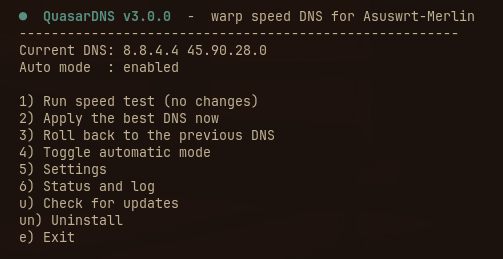
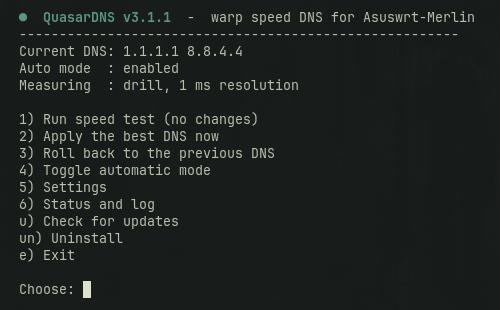
docs: v3.1.1 — install steps, measurement notes, new test sections
Install now downloads the installer to a file instead of piping it into sh.
With `curl ... | sh` the shell's stdin is the pipe, not the terminal, so the
installer cannot ask anything and leaves the automatic mode off without saying
why. Also: only install.sh and quasardns.sh need copying, -O is needed for
Dropbear's lack of SFTP, and scp -r drags .git onto the router.

The menu section leads with the screenshot and quotes only the three lines
worth reading, rather than repeating all 14 as text. The dry-run example is a
real recording, with notes on the two things that look wrong at first glance: a
secondary IP winning (some ISPs block 1.1.1.1 and not its pair) and a score
below 15/15 (a timed-out sample, not a measurement). Corrects `quasar
uninstall` to `quasardns uninstall`.

TESTING.md gains two sections for what this release changed: 1b checks that the
installer asks with `ssh -t` and stays silent without it, and 6 is rewritten
around config/crontab consistency, including breaking it on purpose to confirm
the mismatch is reported rather than swallowed. Section 8 now verifies the
uninstall independently with grep, checks other add-ons survive, and confirms a
reinstall asks about the automatic mode again.

menu.png re-shot on v3.1.1, showing manual DNS and the Measuring line.

Changed region(s): [[0.03, 0.3707, 0.57, 0.9575], [0.03, 0.0309, 0.96, 0.3089], [0.03, 0.0309, 0.06, 0.0927]]

diff --git a/README.md b/README.md
@@ -8,7 +8,7 @@
 
 Inspired by [dnsspeedtest.online](https://dnsspeedtest.online) but built for routers. Runs directly on your **Asuswrt-Merlin** router, works with **amtm**, and plays nicely with Diversion & Skynet.
 
-![QuasarDNS](https://img.shields.io/badge/QuasarDNS-v3.0-7c3aed?style=for-the-badge&logo=starship&logoColor=white) ![Merlin](https://img.shields.io/badge/Merlin-386.x%20%7C%203006.x-0ea5e9?style=for-the-badge&logo=asus&logoColor=white) ![BusyBox](https://img.shields.io/badge/BusyBox-ash-ff6b35?style=for-the-badge&logo=gnubash&logoColor=white) ![License](https://img.shields.io/badge/License-MIT-22c55e?style=for-the-badge&logo=opensourceinitiative&logoColor=white)
+![QuasarDNS](https://img.shields.io/badge/QuasarDNS-v3.1.1-7c3aed?style=for-the-badge&logo=starship&logoColor=white) ![Merlin](https://img.shields.io/badge/Merlin-386.x%20%7C%203006.x-0ea5e9?style=for-the-badge&logo=asus&logoColor=white) ![BusyBox](https://img.shields.io/badge/BusyBox-ash-ff6b35?style=for-the-badge&logo=gnubash&logoColor=white) ![License](https://img.shields.io/badge/License-MIT-22c55e?style=for-the-badge&logo=opensourceinitiative&logoColor=white)
 
 ### Why Quasar?
 
@@ -16,7 +16,7 @@ A quasar is the brightest, most energetic object in the universe — like the fa
 
 ### Features
 
-- **Real benchmark** — 7 public resolvers × 3 popular domains × 5 rounds, measured with the stock `nslookup` (wall-clock of the query); **both IPs of each resolver are tested and the better score is kept** (some networks block `1.1.1.1`); the score is the **mean after dropping the slowest 20 %**, failed queries get a `5000 ms` penalty
+- **Real benchmark** — 7 public resolvers × 3 popular domains × 5 rounds, measured from the **resolver's own reported query time** (Entware `drill`, 1 ms resolution), so the score reflects DNS latency and nothing else; **both IPs of each resolver are tested and the better score is kept** (some networks block `1.1.1.1`); the score is the **mean after dropping the slowest 20 %**, failed queries get a `5000 ms` penalty
 - **Never changes the kind of DNS you use** — resolvers are grouped as `plain`, `security` (malware/phishing blocking) or `ads`; in `auto` mode only resolvers of the same group as your current DNS are considered, so your filtering is never silently added or removed (see [Resolver profiles](#resolver-profiles))
 - **Safe by design** — refuses to run when it would have no effect or conflict: DNS-over-TLS, Unbound, AdGuardHome, dnscrypt-proxy (override with `--force`); verifies the new servers answer *before* applying; verifies the router still resolves *after* applying and **rolls back automatically** if not
 - **Auto mode** — cron job (default: every 3 days at 04:00) that applies changes only when the gain is `>= 5 ms` **and** `>= 15 %` (no flapping); never takes over DNS that is provided by your ISP
@@ -29,26 +29,64 @@ A quasar is the brightest, most energetic object in the universe — like the fa
 ### Requirements
 
 - Asuswrt-Merlin with *Administration → System → Enable JFFS custom scripts and configs = Yes*
-- Nothing else: `nslookup` and `date` ship with the stock BusyBox firmware (no Entware/USB needed)
+- **Recommended for accurate results**: [Entware](https://entware.net) with `drill` and `coreutils-timeout`
+  ```sh
+  opkg update && opkg install drill coreutils-timeout
+  ```
+- Without Entware it still runs on the stock BusyBox `nslookup` — no extra install, but see [Measurement accuracy](#measurement-accuracy)
+
+### Measurement accuracy
+
+The score has to mean *how fast the resolver is*. Two details decide whether it actually does.
+
+**Where the number comes from.** `drill` reports the query time itself (`;; Query time: N msec`), measured inside `ldns` at 1 ms resolution. BusyBox `nslookup` reports nothing, so the only way to time it is to wrap the whole process in a clock — and the best clock available on this firmware is `/proc/uptime`, which only moves in 10 ms steps (19, 29, 39 ms…), so every measurement is rounded to the nearest 10.
+
+**What `nslookup` charges you for.** To print `Address 1: <ip> <name>` it resolves the server's name first, and that extra query goes to the very resolver under test. Because its cost scales with that resolver's latency, it is not a fixed offset — it swamps the signal. Measured on an RT-AC86U, same resolver, same host:
+
+| | `nslookup` | `drill` |
+| --- | --- | --- |
+| Cloudflare `1.1.1.1` | 242 ms | **41 ms** |
+| NextDNS `45.90.28.0` | **213 ms** | 62 ms |
+| spread within one resolver | 100 – 1510 ms | 30 – 50 ms |
+
+With `nslookup`, NextDNS looks like the fastest resolver on the planet and Cloudflare looks mid-table; `drill` shows the opposite. That is why QuasarDNS prefers `drill` and only falls back to `nslookup` when Entware is not available — in that mode it tells you the numbers are coarse.
+
+**It changes decisions, not just displayed numbers.** Two `--dry-run`s on the same router a minute apart, one per tool, comparing the DNS you already use against the best available:
+
+| | current | best | gain | `--auto` would |
+| --- | --- | --- | --- | --- |
+| `drill` | 26 ms | 24 ms | 2 ms | **skip** — below `MIN_GAIN_MS` |
+| `nslookup` | 229 ms | 178 ms | 51 ms (22 %) | **apply** — over both thresholds |
+
+The real difference between those resolvers is ~2 ms. The 51 ms that `nslookup` reports is mostly its own overhead, which is why `MIN_GAIN_MS` cannot catch it: at 50-100 ms of measurement noise, any threshold low enough to be useful is also low enough to be triggered by noise.
 
 ### Install
 
-```sh
-# one-liner (SSH into the router first)
-curl -fsL https://raw.githubusercontent.com/imanubdesigner/QuasarDNS/master/install.sh | sh
-```
-
-or manually from a clone / zip:
+Log in over SSH first — the installer asks whether to enable the automatic checks, so it needs a terminal:
 
 ```sh
-scp -r QuasarDNS-master admin@192.168.1.1:/tmp/
-ssh admin@192.168.1.1
-cd /tmp/QuasarDNS-master && sh install.sh
+ssh -t admin@192.168.1.1
 ```
 
-The installer copies the script to `/jffs/scripts/quasardns`, keeps its data in `/jffs/addons/quasardns.d/`, adds a startup hook, and runs a dry-run.
+Then, on the router:
 
-Upgrading from v1.x? The installer removes the old `quasardns.sh`, the old cron line and migrates the old log. You can then delete `/jffs/dns_backup.txt`.
+```sh
+curl -fsL -o /tmp/install.sh https://raw.githubusercontent.com/imanubdesigner/QuasarDNS/master/install.sh && sh /tmp/install.sh
+```
+
+The script is downloaded to a file rather than piped into `sh` on purpose: with `curl … | sh` the shell's stdin is the pipe, not your terminal, so the installer cannot ask you anything and silently leaves the automatic mode off.
+
+Or, from a clone / zip on your PC — only two files are needed, `install.sh` and `quasardns.sh`:
+
+```sh
+mkdir -p /tmp/QuasarDNS                      # on the router, if it does not exist yet
+scp -O install.sh quasardns.sh admin@192.168.1.1:/tmp/QuasarDNS/
+ssh -t admin@192.168.1.1 'cd /tmp/QuasarDNS && sh install.sh'
+```
+
+`-O` is required because Merlin's Dropbear has no SFTP server. Avoid `scp -r`: it copies `.git/` and the other repository files onto the router.
+
+The installer copies the script to `/jffs/scripts/quasardns`, keeps its data in `/jffs/addons/quasardns.d/`, adds a startup hook, reports which measurement tool it found, and finishes with a dry-run. Upgrading from v1.x? It removes the old `quasardns.sh`, the old cron line and migrates the old log; you can then delete `/jffs/dns_backup.txt`.
 
 ### Usage
 
@@ -69,41 +107,52 @@ quasardns uninstall
 
 ### Menu
 
-Running it with no arguments opens the menu — it shows the DNS you are using right now and the state of the automatic mode:
+Running it with no arguments opens the menu — it shows the DNS you are using right now, the state of the automatic mode, and which measurement tool the next run will use:
 
 ![QuasarDNS menu](menu.png)
+
+The first three lines are the ones worth reading:
+
+```
+  Current DNS: 1.1.1.1 8.8.4.4
+  Auto mode  : enabled
+  Measuring  : drill, 1 ms resolution
+```
+
+`Measuring` tells you whether the numbers mean anything: `drill, 1 ms resolution` is a real measurement, `nslookup, 10 ms clock (coarse)` is rounded to the nearest 10 ms and must not be compared against a `MIN_GAIN_MS` of 5. See [Measurement accuracy](#measurement-accuracy).
+
+What follows `Current DNS` is your own setup: if *Connect to DNS Server automatically = Yes* the WAN DNS is assigned by your ISP and changes when you reconnect, otherwise it is whatever QuasarDNS applied.
 
 ### Example output
 
 Real `--dry-run` output from the test router (an RT-AC86U, `samples: 5`):
 
 ```
-=== QuasarDNS SpeedTest (Sun Sep 27 12:51:00 DST 2026) ===
-Hosts: google.com youtube.com wikipedia.org  |  samples: 5  |  resolvers: plain (same type as your current DNS)
+=== QuasarDNS SpeedTest (Sat Oct  3 10:46:22 CEST 2026) ===
+Hosts: google.com youtube.com wikipedia.org  |  samples: 5  |  resolvers: plain (current DNS not recognized: unfiltered resolvers only)
 
-Cloudflare      1.0.0.1          209 ms (15/15 ok) [plain]
-Google          8.8.8.8          179 ms (15/15 ok) [plain]
-NextDNS         45.90.28.0       170 ms (15/15 ok) [plain]
-DNS4EU          86.54.11.200     211 ms (15/15 ok) [plain]
-Quad9           149.112.112.112  163 ms (15/15 ok) [security]
-OpenDNS         208.67.222.222   154 ms (15/15 ok) [security]
-AdGuard         94.140.15.15     278 ms (15/15 ok) [ads]
-
-[i] query times only move in 10 ms steps on this router: each score is an average over
-    15 queries per resolver, so differences of a few ms are meaningful, single values are not.
+Cloudflare      1.1.1.1           24 ms (15/15 ok) [plain]
+Google          8.8.8.8           25 ms (15/15 ok) [plain]
+NextDNS         45.90.28.0        41 ms (15/15 ok) [plain]
+DNS4EU          86.54.11.200      38 ms (15/15 ok) [plain]
+Quad9           9.9.9.9           24 ms (15/15 ok) [security]
+OpenDNS         208.67.222.222    38 ms (15/15 ok) [security]
+AdGuard         94.140.15.15      38 ms (15/15 ok) [ads]
 
 --- Ranking (fastest -> slowest) ---
-1 170 ms NextDNS 45.90.28.0 (15/15 ok)
-2 179 ms Google 8.8.8.8 (15/15 ok)
-3 209 ms Cloudflare 1.0.0.1 (15/15 ok)
-4 211 ms DNS4EU 86.54.11.200 (15/15 ok)
+1 24 ms Cloudflare 1.1.1.1 (15/15 ok)
+2 25 ms Google 8.8.8.8 (15/15 ok)
+3 38 ms DNS4EU 86.54.11.200 (15/15 ok)
+4 41 ms NextDNS 45.90.28.0 (15/15 ok)
 
-Current: 8.8.8.8 8.8.4.4 -> 158 ms
-DRY-RUN current: 8.8.8.8 8.8.4.4 -> best: 45.90.28.0 8.8.8.8 (NextDNS 170ms)
+Current: ISP (automatic) 8.8.4.4 -> 26 ms
+DRY-RUN current: ISP (automatic) 8.8.4.4 -> best: 1.1.1.1 8.8.8.8 (Cloudflare 24ms)
 Use --apply to apply or --auto for cron
 ```
 
-Only the resolvers of the selected profile are ranked (here `plain`, the group of your current DNS — see [Resolver profiles](#resolver-profiles)); the others are still measured and listed above. Cloudflare shows `1.0.0.1` because `1.1.1.1` is unreachable from that network — that is the both-IPs rule at work. Your own numbers depend on your line.
+Two things worth reading twice. Both IPs of each resolver are tested and the faster one is applied as primary, so you may see `1.0.0.1` or `149.112.112.112` instead of the address you expect: some ISPs block `1.1.1.1` and not its pair. And the score is only counted when the answer is `NOERROR` **and** carries an `ANSWER SECTION` — a lookup that fails fast is recorded as a failure, not as a fast success, which is why the column reads `14/15 ok` when a single sample timed out.
+
+Only the resolvers of the selected profile are ranked (here `plain`, the group of your current DNS — see [Resolver profiles](#resolver-profiles)); the others are still measured and listed above. Google and OpenDNS show their *secondary* address because it was the one that answered fastest here — that is the both-IPs rule at work. Your own numbers depend on your line.
 
 ### Settings
 
@@ -114,7 +163,7 @@ Stored in `/jffs/addons/quasardns.d/config` (edit from the menu → *Settings*):
 | `PROFILE` | `auto` | `auto` = same group as your current DNS (`plain` if unknown) · `plain` · `security` · `ads` · `all` |
 | `DNS2_MODE` | `auto` | Secondary DNS: `next` = second-best provider · `same` = the provider's own secondary · `auto` = `next` for `plain`, `same` otherwise |
 | `SAMPLES` | `5` | Rounds per domain (1–5) |
-| `MIN_GAIN_MS` / `MIN_GAIN_PCT` | `5` / `15` | Thresholds for `--auto` |
+| `MIN_GAIN_MS` / `MIN_GAIN_PCT` | `5` / `15` | Thresholds for `--auto`. With `drill` these are meaningful at the default values; on the `nslookup` fallback they sit below the 10 ms clock step |
 | `AUTO` | `disabled` | Whether the cron job is scheduled |
 | `SCHEDULE` | `0 4 */3 * *` | Cron expression for `--auto` |
 | `AMTMUPDATE` | `enabled` | Let amtm update this add-on |
@@ -135,9 +184,9 @@ Resolvers are grouped by what they block, and only members of the selected profi
 
 ### How it works
 
-Each resolver is queried for `google.com`, `youtube.com` and `wikipedia.org` (`SAMPLES` rounds) over plain UDP/53 with the stock `nslookup`, exactly what `dnsmasq` uses upstream. Both IPs of the resolver are benchmarked and the better one becomes the primary server written to the config — this way a resolver is not penalised because your network blocks one of its addresses. The score is the mean elapsed query time after dropping the slowest 20 % of the samples; queries that fail count as `5000 ms`, and resolvers that fail more than a third of their queries are discarded.
+Each resolver is queried for `google.com`, `youtube.com` and `wikipedia.org` (`SAMPLES` rounds) over plain UDP/53 — the same transport `dnsmasq` uses upstream. Both IPs of the resolver are benchmarked and the better one becomes the primary server written to the config — this way a resolver is not penalised because your network blocks one of its addresses. The score is the mean elapsed query time after dropping the slowest 20 % of the samples; queries that fail count as `5000 ms`, and resolvers that fail more than a third of their queries are discarded.
 
-On some routers the timer only moves in 10 ms steps (19, 29, 39 ms...). That is why the score is a mean over many queries and not a median or a single query: it stays reliable to a few milliseconds even with a coarse timer, and QuasarDNS tells you when it detects this.
+A query only counts as a success when the resolver answers `NOERROR` with an actual answer. A fast `NXDOMAIN` or `SERVFAIL` is treated as a failure, so a resolver cannot score well by failing quickly.
 
 These domains are almost always cached, so the score reflects mainly the network latency to each resolver — which is what dominates the DNS time of most lookups — rather than cold-cache recursion speed.
 
@@ -163,11 +212,17 @@ Diversion filters **before** forwarding, so changing the upstream WAN DNS does n
 quasardns uninstall
 ```
 
-Optionally restores your previous DNS, removes the cron job, the startup hook, the script, and (if you say so) your settings and logs.
+It asks three questions: remove it, restore the DNS you had before the last change, and delete your settings and logs. It then takes out the script, the `/jffs/addons/quasardns.d/` directory, the cron job, the startup hook line and the run lock — and instead of assuming it succeeded, it checks and tells you what is still on disk:
+
+```
+[OK] QuasarDNS removed. Nothing left behind.
+```
+
+If anything survives, it is listed by path, so you can see whether it is a file it could not write or a reference it did not know about.
 
 ### Compatibility
 
-Developed and tested on an **Asus RT-AC86U** (Merlin 386.14_2, BusyBox 1.25.1). The code is plain POSIX `sh` and should work on other Merlin routers, including 3006.x firmware, but the way DNS changes are made effective (`service updateresolv`) has only been verified on 386.14_2 so far. Reports are welcome — please open an issue.
+Developed and tested on an **Asus RT-AC86U** (Merlin 386.14_2, BusyBox 1.25.1). The code is plain POSIX `sh` and should work on other Merlin routers, including 3006.x firmware, but the way DNS changes are made effective (`service updateresolv`) has only been verified on 386.14_2 so far. The `drill` path has been verified on the same router; the `nslookup` fallback needs nothing extra and is the portable one. Reports are welcome — please open an issue.
 
 ### License
 

diff --git a/TESTING.md b/TESTING.md
@@ -1,15 +1,35 @@
 # Testing QuasarDNS on a real router
 
-v3.0.0 was checked with `sh -n`, with unit tests of the timer (uptime fractions, bad reads), and with a full dry-run on a real RT-AC86U running Merlin 386.14_2 / BusyBox 1.25.1 (no kernel log spam, empty stderr). The items below can only be verified on hardware. Run them over SSH, in order. Tick each one.
+v3.1.1 was checked with `sh -n`, with unit tests of the timer (uptime fractions, bad reads) and of the query-result filter, and with full dry-runs on a real RT-AC86U running Merlin 386.14_2 / BusyBox 1.25.1. The installer, the automatic mode and the uninstaller were each exercised on that router over repeated install → uninstall → reinstall cycles. The items below can only be verified on hardware. Run them over SSH, in order. Tick each one.
 
 ## 1. Install
 - [ ] `sh install.sh` finishes without errors; `/jffs/scripts/quasardns` and `/jffs/addons/quasardns.d/config` exist
+- [ ] It prints `Measurement: drill (/opt/bin/drill) + timeout — 1 ms resolution.` — or, without Entware, it prints the `[!] Measurement dependencies missing` block and offers to install them
 - [ ] `grep QuasarDNS /jffs/scripts/services-start` shows **one** line (run the installer twice to check)
 - [ ] Upgrading from v1.x: old `quasardns.sh` and its cron line are gone
+
+## 1b. The installer only asks when it can be answered
+The installer decides by testing whether stdin is a terminal, so these two runs must behave differently. This is worth checking on purpose: a silent wrong default is worse than no prompt.
+- [ ] `ssh -t admin@192.168.1.1 'cd /tmp/QuasarDNS && sh install.sh'` → the question `Enable automatic checks …? [y/N]` is **printed and waits**
+- [ ] Answering `y` prints `Enabling automatic checks...` followed by `[OK] Automatic mode enabled (0 4 */3 * *)`; answering `n` prints `Automatic mode is off` and the command to turn it on later
+- [ ] `ssh admin@192.168.1.1 'cd /tmp/QuasarDNS && sh install.sh'` (no `-t`) → it prints `Automatic mode is OFF (no terminal attached, so nothing was asked)` and **asks nothing**, rather than pretending to ask and taking a default
+- [ ] After answering, the summary block `=== installed ===` ends with the `remove` line and **no stray `EOF`**
 
 ## 2. Dry-run (must not change anything)
 - [ ] `quasardns --dry-run` prints 7 resolvers, a ranking and a `DRY-RUN current: ...` line
 - [ ] `nvram get wan0_dns1_x` is unchanged and `/jffs/addons/quasardns.d/` has no new files besides `config`
+
+## 2b. Measurement tool (v3.1.0+)
+
+QuasarDNS measures with Entware's `drill` when present and falls back to BusyBox `nslookup`. The two do not agree — not on the numbers, and not on the ranking — so check the one you have.
+- [ ] `ls -l /opt/bin/drill /opt/bin/timeout` both exist; if not: `opkg update && opkg install drill coreutils-timeout`
+- [ ] The menu shows `Measuring  : drill, 1 ms resolution` — and `quasardns status` shows the same on its `Measuring` line
+- [ ] Force the fallback and confirm the menu follows: `QUASARDNS_DRILL=/nonexistent sh /jffs/scripts/quasardns status` → `nslookup, 10 ms clock (coarse)`
+- [ ] `quasardns --dry-run` prints scores in the tens of milliseconds and **does not** print the `query times only move in 10 ms steps` note
+- [ ] Force the fallback and confirm the coarse notice comes back: `QUASARDNS_DRILL=/nonexistent sh /jffs/scripts/quasardns --dry-run` — scores jump to the hundreds of ms and the `[i] query times only move in 10 ms steps` note is printed
+- [ ] A fast failure must be treated as a failure, never as a fast success: `drill x.does-not-exist.invalid @1.1.1.1 | grep -E 'rcode|Query time'` shows an `rcode` other than `NOERROR`, while QuasarDNS only scores a lookup when the answer is `NOERROR` **and** an `ANSWER SECTION` is present
+- [ ] An unreachable resolver must not stall the run: `time /opt/bin/timeout 3 /opt/bin/drill google.com @192.0.2.1` returns in ~3 s (`192.0.2.1` is TEST-NET-1). Without the timeout the same query takes ~15 s
+- [ ] Compare the two rankings on your own line — if `nslookup` and `drill` agree, you have an unusually stable connection; if they disagree, `drill` is the one to trust
 
 ## 3. Apply — the most important check
 - [ ] `quasardns --apply` ends with `[OK] New DNS: ... (active in /tmp/resolv.dnsmasq)`. If instead it says the new DNS did not reach the resolver files and rolled back, `service updateresolv` does not work on your firmware: please report the firmware version
@@ -28,15 +48,21 @@ v3.0.0 was checked with `sh -n`, with unit tests of the timer (uptime fractions,
 - [ ] With *Connect to DNS Server automatically = Yes*: `--auto` logs "DNS is provided by the ISP" and changes nothing
 
 ## 6. Automatic mode
-- [ ] `quasardns --enable` → `cru l | grep QuasarDNS` shows the job
+The important property here is that the config and the crontab cannot disagree. `AUTO=enabled` with no cron job means the check will never run and nothing says so, which is the failure this section exists to catch.
+- [ ] `quasardns --enable` → `cru l | grep QuasarDNS` shows the job, and the run ends with `[OK] Automatic mode enabled (…)`
+- [ ] **Both agree**: `AUTO` in `/jffs/addons/quasardns.d/config` and `cru l | grep QuasarDNS` report the same state. Check this after installing, after `--enable` and after `--disable`
+- [ ] Break it on purpose and confirm you are told: `cfg_set AUTO enabled` by hand without a cron entry, then `quasardns --enable` → prints `[X] Auto mode is marked enabled but the cron job was NOT created.` and exits non-zero, instead of a false `[OK]`
+- [ ] Same in reverse: `quasardns --disable` with a cron entry still present → `[!] Auto mode is disabled but the cron job is still listed.`
+- [ ] Interrupting `--enable` part-way (it is silent for a few seconds while `cru` works) must not leave the two states inconsistent: re-run it and check the line above
 - [ ] `reboot`, then `cru l | grep QuasarDNS` shows it again (startup hook)
 - [ ] Set `MIN_GAIN_MS=0` and `MIN_GAIN_PCT=0` in the menu, run `quasardns --auto`, read `quasardns status`; restore the defaults afterwards
 - [ ] `quasardns --disable` removes the job
 
 ## 6b. Under cron's own environment (important)
 cron runs jobs with a different environment than your SSH session (`PATH` and `LD_LIBRARY_PATH` point at the firmware), and a script that works over SSH can still fail there. This was found on a real RT-AC86U: Entware's `grep` broke with `relocation error` / `Bus error` when it came first in `PATH`.
-- [ ] Read the current minute with `date +%M`, then schedule a **single** run two minutes later (a full benchmark takes ~2 minutes, so `* * * * *` would overlap with itself): `cru a qtest "47 13 * * * /jffs/scripts/quasardns --dry-run > /tmp/qtest.out 2>&1"` (use your own minute/hour)
+- [ ] Read the current minute with `date +%M`, then schedule a **single** run two minutes later (a full benchmark takes ~2 minutes on `nslookup`, less on `drill`, so `* * * * *` would overlap with itself): `cru a qtest "47 13 * * * /jffs/scripts/quasardns --dry-run > /tmp/qtest.out 2>&1"` (use your own minute/hour)
 - [ ] After that minute plus ~3 minutes: `cat /tmp/qtest.out` shows the normal ranking, with **no** `relocation error`, no `Bus error` and no `arithmetic syntax error`
+- [ ] That cron output also shows scores in the tens of milliseconds, proving `drill` was found (it is called by absolute path, because cron's `PATH` does not include `/opt/bin`) rather than silently falling back to `nslookup`
 - [ ] Remove it: `cru d qtest`
 
 ## 7. amtm / updates
@@ -45,7 +71,14 @@ cron runs jobs with a different environment than your SSH session (`PATH` and `L
 - [ ] `quasardns update` on the latest version says you are up to date
 
 ## 8. Uninstall
-- [ ] `quasardns uninstall` removes the script, cron job and hook, and restores the DNS if you ask for it
+The uninstaller must not claim success on faith. It checks, and names anything it could not remove.
+- [ ] `quasardns uninstall` asks its three questions and removes the script, the `/jffs/addons/quasardns.d/` directory, the cron job, the startup hook line and the run lock
+- [ ] It ends with `[OK] QuasarDNS removed. Nothing left behind.`
+- [ ] Independently confirm nothing survived: `grep -rli quasar /jffs/scripts /jffs/addons` returns nothing, and `cru l | grep QuasarDNS` is empty
+- [ ] `grep -c QuasarDNS /jffs/scripts/services-start` is `0`
+- [ ] Other add-ons are untouched — in particular any `*.bak` belonging to another script survives
+- [ ] Reinstalling afterwards asks about the automatic mode **again** (proves the config was really removed, not left behind with a stale `AUTO=enabled`)
+- [ ] To exercise the reporting path, leave something behind on purpose (e.g. a file the script does not know about) and confirm it is listed by path instead of being silently ignored
 
 ## Firmware / hardware matrix
 
